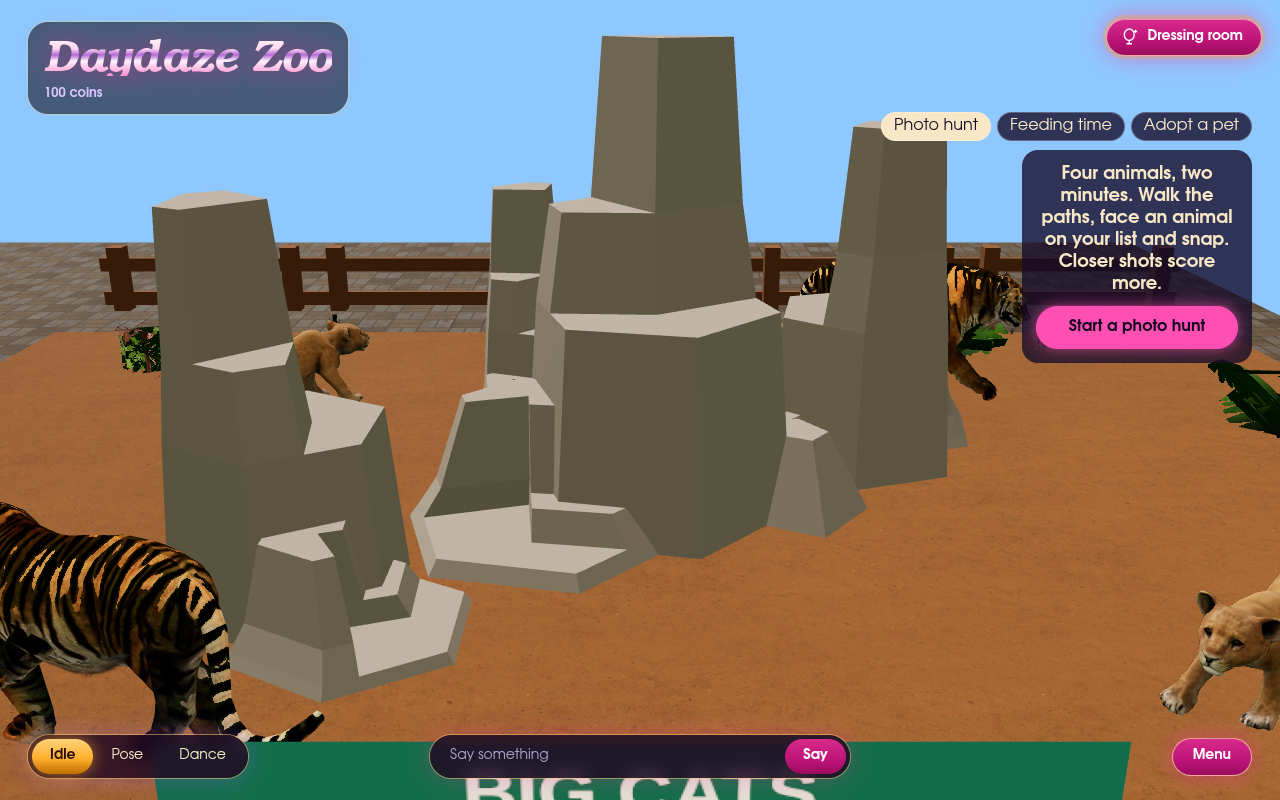
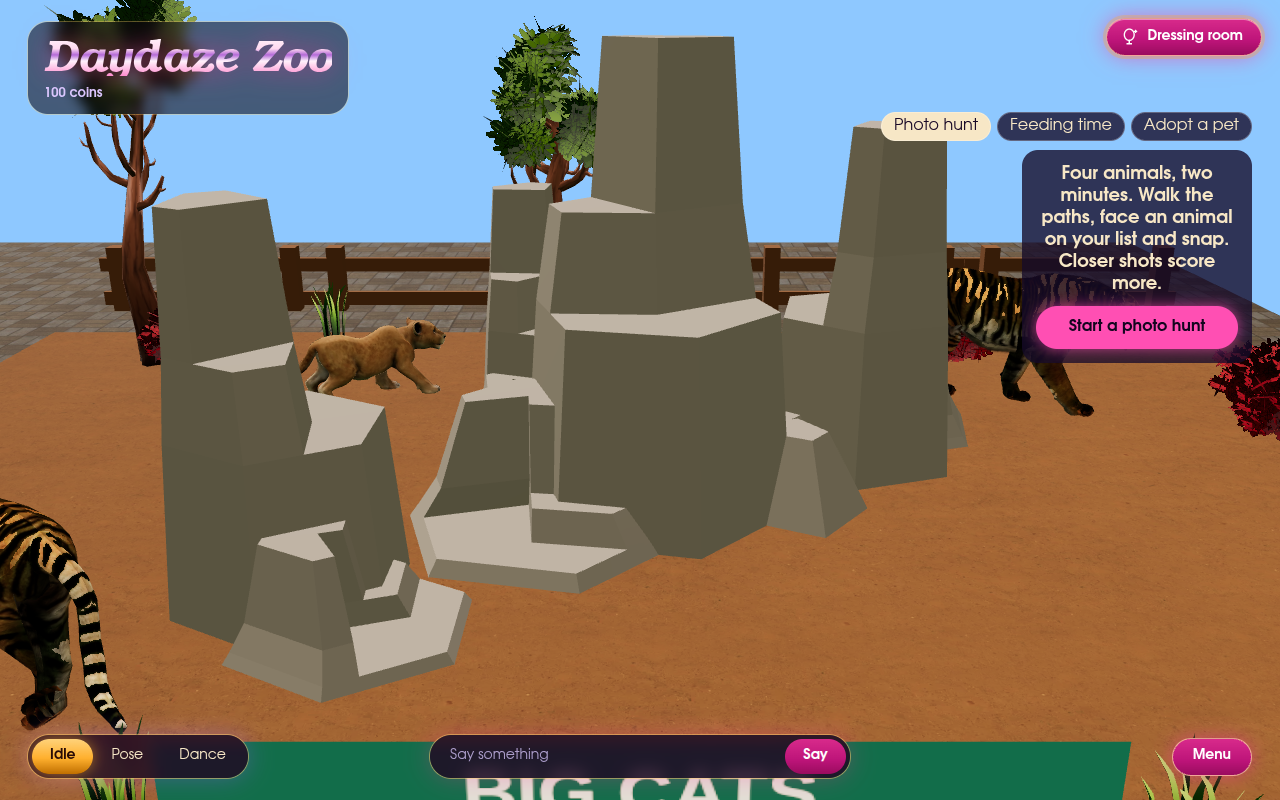
fix(zoo): float quantized GLB geometry in Scatter so trees, bushes and rocks render; park shots

diff --git a/src/client/rooms/Zoo.tsx b/src/client/rooms/Zoo.tsx
@@ -330,24 +330,21 @@ export function Zoo({
       />
       <Scatter url="/models/nature/commontree-2.glb" spots={TREE_SPOTS} />
       <Scatter
-        url="/models/nature/commontree-2.glb"
+        url="/models/nature/commontree-4.glb"
         spots={[...WOODS_DRESSING.trees, ...BIGCATS_DRESSING.trees]}
       />
       <Scatter
-        url="/models/nature/fern-1-lo.glb"
-        spots={[
-          ...WOODS_DRESSING.ferns,
-          ...WOODS_DRESSING.bushes,
-          ...BIGCATS_DRESSING.bushes,
-        ]}
+        url="/models/nature/bush-common.glb"
+        spots={[...WOODS_DRESSING.bushes, ...BIGCATS_DRESSING.bushes]}
       />
+      <Scatter url="/models/nature/fern-1.glb" spots={WOODS_DRESSING.ferns} />
       <Scatter
-        url="/models/zoo/rock_smallA.glb"
+        url="/models/nature/rock-medium-1.glb"
         color="#9a9288"
         spots={WOODS_DRESSING.rocks}
       />
       <Scatter
-        url="/models/nature/grass-common-tall-lo.glb"
+        url="/models/nature/grass-common-tall.glb"
         spots={[...WOODS_DRESSING.grass, ...BIGCATS_DRESSING.grass]}
       />
       <Animals player={player} />

diff --git a/src/client/rooms/zoo/Scatter.tsx b/src/client/rooms/zoo/Scatter.tsx
@@ -7,6 +7,7 @@ import { useEffect, useMemo, type JSX } from "react";
 import * as THREE from "three";
 import type { Spot } from "../../../game/zoo.ts";
 import { disposeInstanced } from "../../city/dispose.ts";
+import { floated } from "../../city/floated.ts";
 
 export function Scatter({
   url,
@@ -30,7 +31,9 @@ export function Scatter({
     const out: THREE.InstancedMesh[] = [];
     gltf.scene.traverse((o) => {
       if (!(o instanceof THREE.Mesh)) return;
-      const geometry = (o.geometry as THREE.BufferGeometry).clone();
+      // floated: the optimized GLBs store quantized integers, which a baked
+      // transform would truncate or clamp (squashed trees, black normals)
+      const geometry = floated(o.geometry as THREE.BufferGeometry);
       geometry.applyMatrix4(o.matrixWorld);
       const source = Array.isArray(o.material) ? o.material[0] : o.material;
       const material = source?.clone();

diff --git a/scripts/screenshots.ts b/scripts/screenshots.ts
@@ -205,8 +205,8 @@ const SHOTS: {
   // the big cats' rocks (lions and tigers) and the woods (bear and elk)
   { name: "zoo-bigcats", query: "room=zoo&cam=-13,3.2,-2.5,-13,1,4" },
   {
-    name: "park-wildlife",
-    query: "room=city&view=full&time=14:00&at=268,-279",
+    name: "park-deer",
+    query: "room=city&time=14:00&at=268,-279&cam=277,22,-252,277,0,-277",
     act: cityReady,
   },
   { name: "zoo-woods", query: "room=zoo&cam=0,7,2,0,1,-6.2" },

diff --git a/src/game/zoo.ts b/src/game/zoo.ts
@@ -304,7 +304,7 @@ export const WOODS_DRESSING = {
     [-1.5, -7.2, 0.45],
   ]),
   rocks: dress([
-    [-0.5, -5, 1.4],
+    [-0.5, -5, 0.5],
     [2.8, -7.2, 0.45],
   ]),
   grass: dress([
